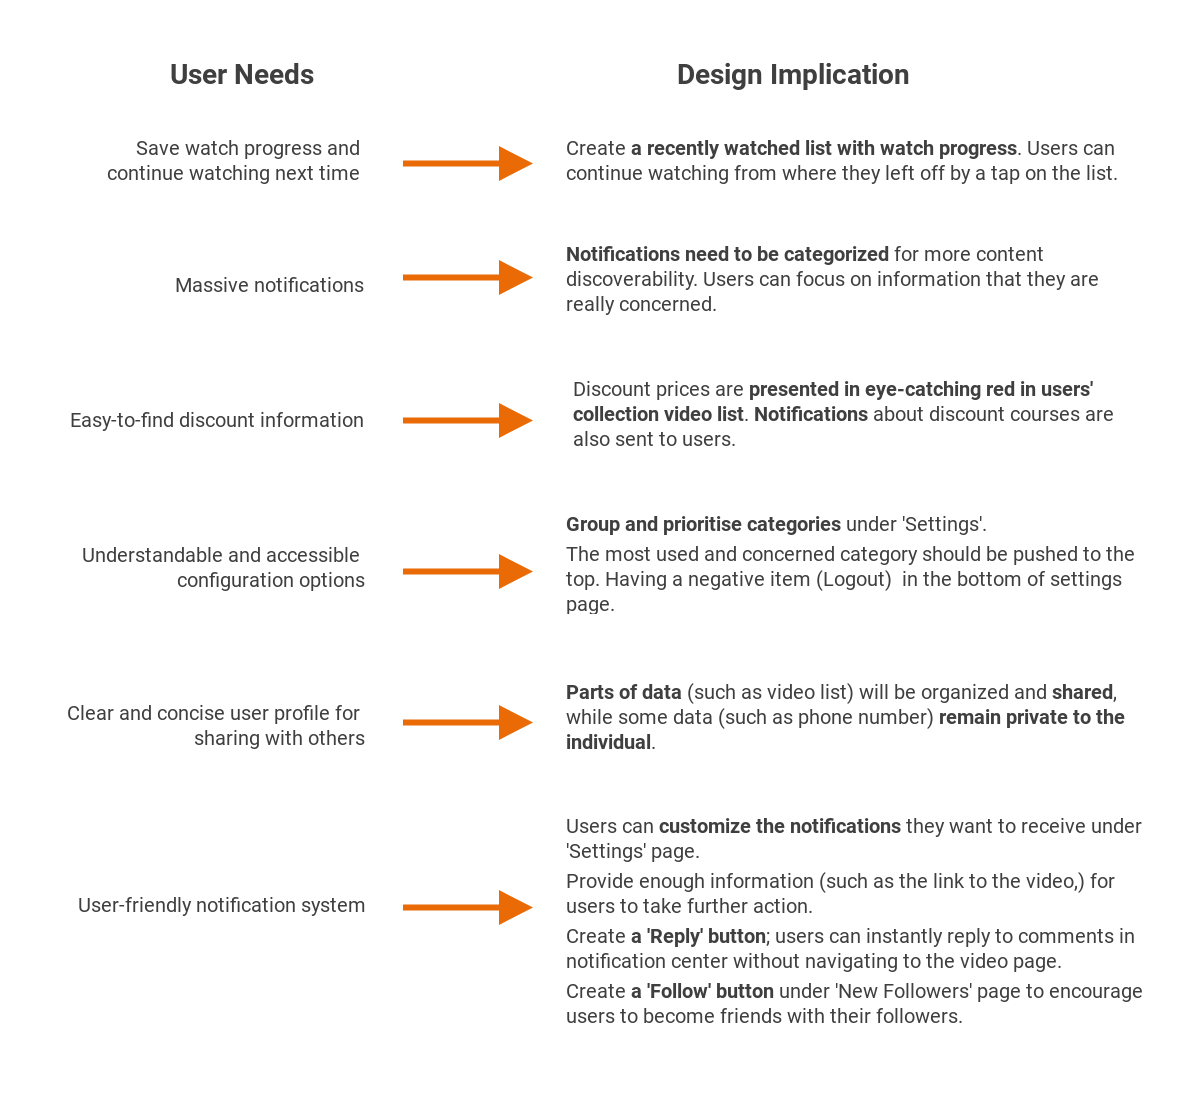
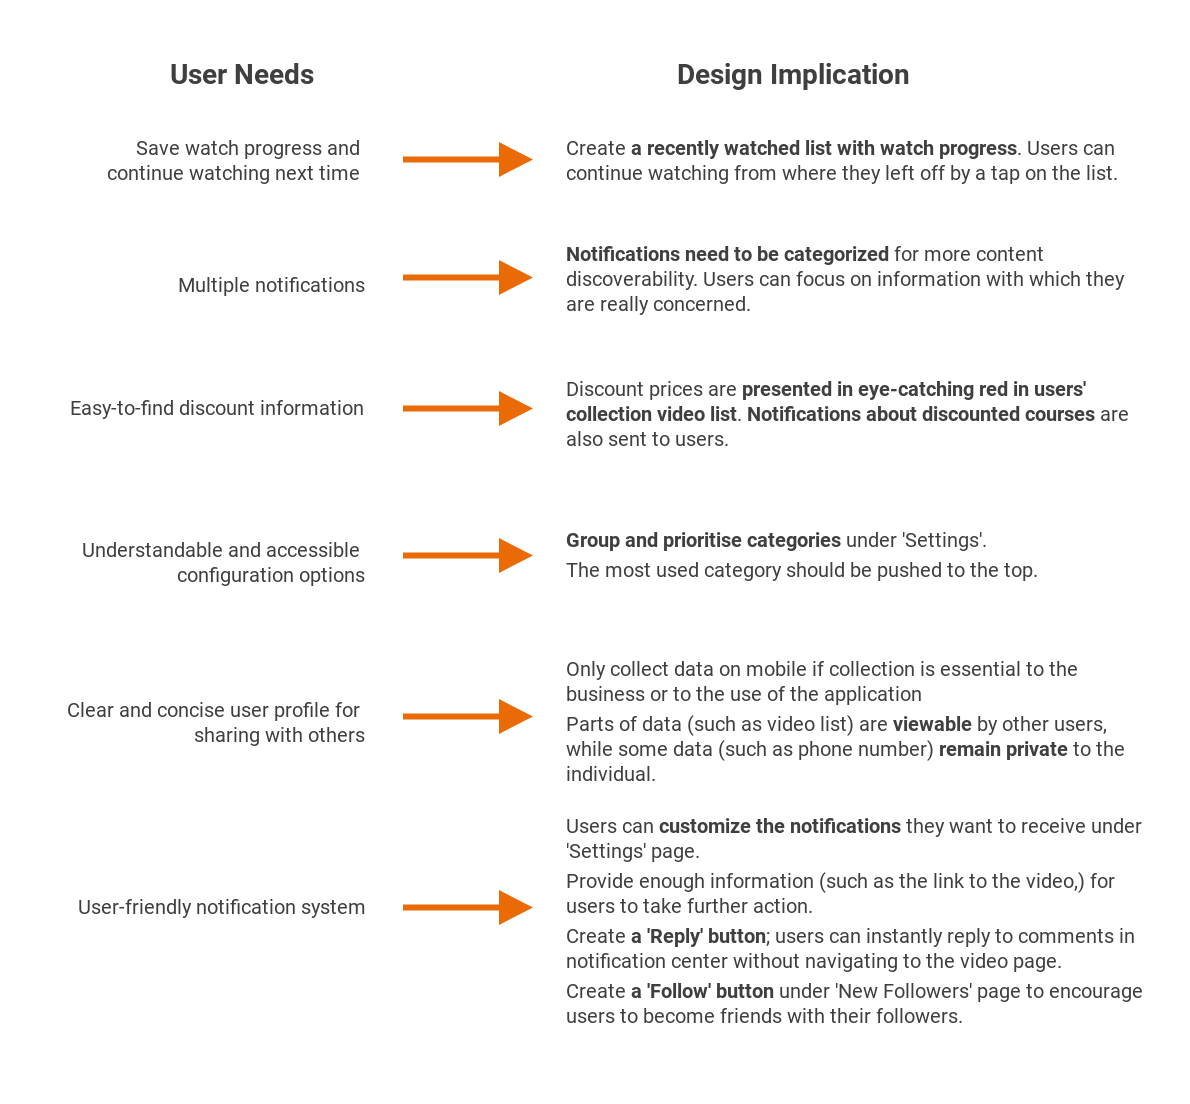
update content

diff --git a/diantv.html b/diantv.html
@@ -131,15 +131,15 @@
                         </font>Introduction</p><br>
                         <p style="text-align: justify">Diantv is an app-based course-sharing platform that gathers workers to stay connected and informed,
                             advance their careers, and work smarter. Diantv brings together a wide range of high-quality courses in various industries,
-                            allowing users to learn fragmented knowledge anytime and anywhere.
+                            allowing users to gain knowledge in a digestible format anytime and anywhere.
                             Users also can create courses and deliver professional content.</p>
                         <br><br>
                         <p style="margin-left: -40px"><font color="EC7F37" size="8" bold>
                             #
                         </font>My Role</p><br>
                         <div class="one">
-                            Designed the first iteration of the ‘Me’ sector of the Diantv app;<br>
-                            Worked alongside an UI designer, marketing strategist, product manager and the engineering team. <br>
+                            Designed the first iteration of the ‘Me’ section of the Diantv app;<br>
+                            Worked alongside a UI designer, marketing strategist, product manager, and the engineering team. <br>
                             <br>
                         </div>
                         <p class="single-picture">
@@ -159,11 +159,11 @@
             <p style="margin-left: -40px"><font color="black" size="8">
                 #
             </font>Problem Statement</p><br>
-            <p style="padding-bottom: 10px"><font size="6">Tell Me About Me – 'Me' Sector</font></p>
+            <p style="padding-bottom: 10px"><font size="6">Tell Me About Me – 'Me' section</font></p>
             <!--            <p ><font size="6">How can the company know more about users for target marketing activities?</font><p><br>-->
 
 
-            <p style="padding-bottom: 10px"><font size="6">How users interact with our app in a customized way and operate with the data effectively?</font></p>
+            <p style="padding-bottom: 10px"><font size="6">How do users interact with our app in a customized way and operate with the data effectively?</font></p>
 <!--            <p ><font size="6">How can the company know more about users for target marketing activities?</font><p><br>-->
             <br><br>
             <div class="clear"></div>
@@ -183,12 +183,12 @@
                         <br><br>
                         <b>Identifying core audience</b><br><br>
                         <div class="one">
-                            Content customer: People (Professionals, experts, authors, etc.)
-                            or organizations who wants to share and delivery professional skills and knowledge via knowledge-based content videos<br>
+                            Content consumer: People (Professionals, experts, authors, etc.)
+                            or organizations who want to share and deliver professional skills and knowledge via knowledge-based content videos<br>
                         </div>
                         <div class="one">
                             Content producer: People (Newbies, employees, freelancers, students, etc.)
-                            who want to learn knowledge, improve professional skills, and get inspirations<br>
+                            who want to acquire knowledge, improve professional skills, and be inspired<br>
                         </div>
                         <br>
                         <p><b>Personas</b></p>
@@ -201,11 +201,11 @@
                         </div>
                         <div class="clear"></div><br>
                         <p><b>Key Insights</b></p><br>
-                        <p style="padding-bottom: 10px">1. Users cannot finish the course at one time.  <br>
-                        <p style="padding-bottom: 10px">2. Massive notifications can cause confusion and bother.<br>
-                        <p style="padding-bottom: 10px">3. Discount information is easy to find.<br>
+                        <p style="padding-bottom: 10px">1. Users cannot finish the course in one sitting  <br>
+                        <p style="padding-bottom: 10px">2. Too many notifications can cause confusion and bother<br>
+                        <p style="padding-bottom: 10px">3. Discount information is not easy to find<br>
                         <p style="padding-bottom: 10px; ">4. Users do not want to miss necessary notifications and feedback</p>
-                        <p style="padding-bottom: 10px; ">&nbsp;&nbsp;&nbsp;&nbsp;but they hate to be disturbed too much by notifications.</p>
+                        <p style="padding-bottom: 10px; ">&nbsp;&nbsp;&nbsp;&nbsp;but they hate to be disturbed too much by notifications</p>
 <!--                        <p style="padding-bottom: 10px"><b>5. Users want to get informed when their favorite content creator deliver new videos, which would benefits content creator as well</b><br>-->
 
                         <br><br><br>
@@ -213,12 +213,12 @@
                             #
                         </font>competitive analysis</p>
                         <br><br>
-                        <p>I did a competitve analysis of 3 platforms to question how information can be better presented and organized with visual balance or hierarchy.  </p>
+                        <p>I did a competitve analysis of three platforms to explore how information can be better presented and organized with visual balance or hierarchy.  </p>
                         <br>
                         <p><img src="images/diantv/competition.png" alt=""/><br><br><b>Key Insights</b></p><br>
-                        <p style="padding-bottom: 10px">1. Configuration and preference options should be clearer and more accessible.</p>
-                        <p style="padding-bottom: 10px">2. Keep things clear and concise under profile pages.</p>
-                        <p style="padding-bottom: 10px">3. Notifications should provide enough information to inform about an event and encourage users to take action.
+                        <p style="padding-bottom: 10px">1. Configuration and preference options should be clearer and more accessible</p>
+                        <p style="padding-bottom: 10px">2. Keep things clear and concise under profile pages</p>
+                        <p style="padding-bottom: 10px">3. Notifications should provide enough information to inform about an event and encourage users to take action
                         <br>
                         <br><br>
                     </div>
@@ -273,7 +273,7 @@
                         <p><b>Notifications</b></p><br>
                         <p>Use notification badge (a dot) to direct the user to the notification.<br>
                             The notifications from likes, new followers, comments or system messages are anchored to the respective navigation menus.<br>
-                            Texts, pictures, Links and buttons help user get informed and take action.
+                            Texts, pictures, links, and buttons help users get informed and take action.
                             </p><br><br>
                         <p>
                             <img src="images/diantv/notification.png" alt=""/>
@@ -301,7 +301,7 @@
                             <p><b>Settings</b></p>
                             <div style="margin-top: 50px">
                                 Setting options are categorized into Account & Security, Preferences, and About Us.
-                                <br>Having a negative item (Logout) in the bottom of the 'Settings' page.
+                                <br>Negative item (Logout) is in the bottom of the 'Settings' page.
                             </div>
                         </div>
                         <div class="one_half last">
@@ -322,14 +322,14 @@
             </font>Takeaways</p><br>
             The Diantv app was launched on December 17, 2020! I am proud to contribute to this real-world solution.😊 <br><br>
 
-            There were many ideas I wanted to implement that was not included in the portfolio but because of the existing product vision and business goals,
-            I <b>worked with these constraints</b> to come up with the most feasible and efficient design.
-            I also learned to refer the established design principles in the company to achieve <b>consistency in interaction design</b>.
+            There were many ideas I wanted to implement that were not included in the portfolio but because of the existing product vision and business goals,
+            I <b>worked within these constraints</b> to come up with the most feasible and efficient design.
+            I also learned to refer to the established design principles in the company to achieve <b>consistency in interaction design</b>.
             <br><br>
             Furthermore, a valuable lesson from this internship was how our team collaborated closely and
             overcame difficulties in <b>turning a rough entrepreneurial idea
             into a well-functioning and deliverable product</b> within a limited time.<br><br>
-            If you are interested, you can get Diantv on app stores:
+            You can find Diantv available for download on app stores:
             <a target="_blank" href="https://apps.apple.com/ae/app/%E7%A2%98%E8%A7%86%E9%A2%91-%E6%8D%A2%E4%B8%AA%E5%A7%BF%E5%8A%BF%E5%AD%A6%E7%9F%A5%E8%AF%86-%E5%A4%84%E5%A4%84%E7%9F%A5%E8%AF%86%E7%A2%98/id1540726122"><u>IOS</u></a>
             &nbsp;& &nbsp;<a href="https://a.app.qq.com/o/simple.jsp?pkgname=com.tmtpost.video" target="_blank"><u>Android</u></a>
             <a href="blossom.html"> <img src="images/blossom/circled-right.png"

diff --git a/index.html b/index.html
@@ -88,7 +88,7 @@
             <div class="grid" id="portfolio">
                 <div class="grid-sizer"></div>
                 <div class="grid-item element-item p_one_third">
-<!--                    <a href="diantv.html" target="_blank">-->
+                    <a href="diantv.html" target="_blank">
                         <img src="demo-images/3.jpg" alt="" />
                         <div class="portfolio-text-holder">
                             <p class="portfolio-text">Diantv</p>
